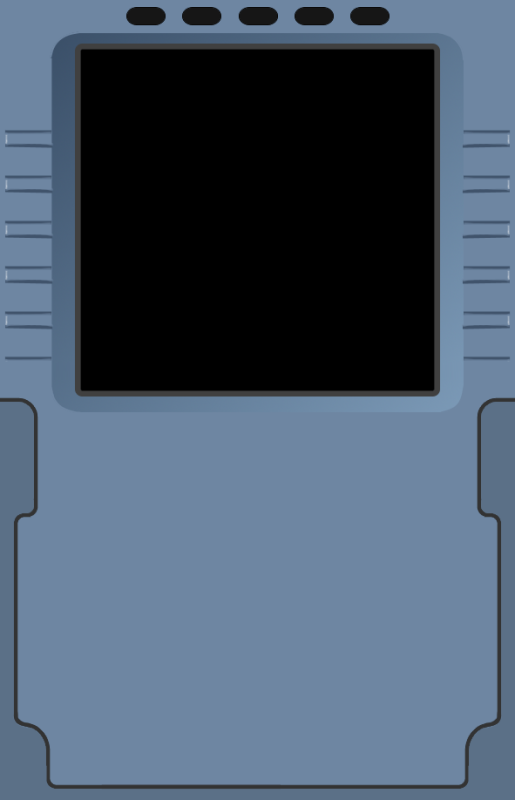
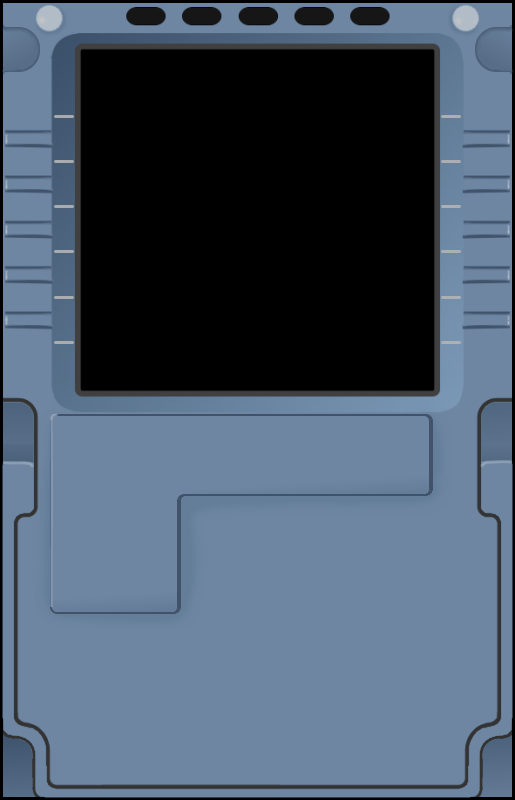
temp commmit

diff --git a/main.py b/main.py
@@ -14,6 +14,7 @@ framerect = mcduframe.get_rect()
 mcdubutton = pygame.image.load("mcdubutton.png").convert()
 plankbtntemp = pygame.image.load("plankbtntemp.png").convert()
 akey = pygame.image.load("akey.png").convert()
+circularbutton = pygame.image.load("circularbutton.png").convert()
 
 #logic vars
 currPage = ""
@@ -31,10 +32,12 @@ orange = (255, 147, 0)
 depdest = "____/____"
 depdestclr = orange
 corte = "__________"
+corteclr = orange
 altncorte = "____/__________"
 fltnbr = "________"
 costi = "---"
 crzfl = "-----/---°"
+initrqvis = True
 
 class Button():
   def __init__(self, x, y, image):
@@ -73,11 +76,13 @@ class fmgc():
     global currPage
     global depdest
     global depdestclr
+    global corteclr
     global corte
     global altncorte
     global fltnbr
     global costi
     global crzfl
+    global initrqvis
     currPage = "initA"
     scrtchpd.pad("")
     self.depdest = depdest
@@ -87,10 +92,6 @@ class fmgc():
     title_rect = title.get_rect()
     title_rect.topleft = (224, 68)
     screen.blit(title, title_rect)
-    title = font.render("REQUEST*", True, orange)
-    title_rect = title.get_rect()
-    title_rect.topleft = (308, 158)
-    screen.blit(title, title_rect)
     title = font.render("←→", True, white)
     title_rect = title.get_rect()
     title_rect.topleft = (384, 68)
@@ -99,7 +100,7 @@ class fmgc():
     title_rect = title.get_rect()
     title_rect.topleft = (290, 108)
     screen.blit(title, title_rect)
-    title = font.render(corte, True, orange)
+    title = font.render(corte, True, corteclr)
     title_rect = title.get_rect()
     title_rect.topleft = (88, 108)
     screen.blit(title, title_rect)
@@ -120,11 +121,18 @@ class fmgc():
     title_rect = title.get_rect()
     title_rect.topleft = (93, 181)
     screen.blit(title, title_rect)
-    title = font.render("INIT", True, orange)
-    title_rect = title.get_rect()
-    title_rect.topleft = (369, 140)
-    screen.blit(title, title_rect)
+    if initrqvis == True:
+      title = font.render("INIT", True, orange)
+      title_rect = title.get_rect()
+      title_rect.topleft = (369, 140)
+      screen.blit(title, title_rect)
+      font = pygame.font.Font("HoneywellMCDU.ttf", 21)
+      title = font.render("REQUEST*", True, orange)
+      title_rect = title.get_rect()
+      title_rect.topleft = (308, 158)
+      screen.blit(title, title_rect)
     scrtchpd.pad("")
+    return
     
   def StartMenu(self):
     global currPage
@@ -195,9 +203,13 @@ class Scratchpad():
   def pad(self, inpt):
     global scratch
     act = True
+   
     if act == True:
       font = pygame.font.Font("HoneywellMCDU.ttf", 21)
-      if inpt == "CLR":
+      if len(scratch) >= 23 and inpt != "CLR":
+        self.invalidinpt("TOO LONG")
+        return
+      elif inpt == "CLR":
         if scratch == "":
           scratch = "     CLR"
         elif scratch == "     CLR":
@@ -215,22 +227,24 @@ class Scratchpad():
       screen.blit(text, text_rect)
       return scratch
       
-  def invalidinpt(self):
+  def invalidinpt(self, text):
     global scratch
     font = pygame.font.Font("HoneywellMCDU.ttf", 21)
-    text = font.render("INVALID INPUT", True, orange)
+    text = font.render(text, True, orange)
     text_rect = text.get_rect()
     text_rect.topleft = (87, 363)
     blocker = pygame.Surface((350, 29))
     blocker.fill((0, 0, 0))
     screen.blit(blocker, self.rect)
     screen.blit(text, text_rect)
-    time.sleep(3)
+    pygame.display.flip()
+    time.sleep(2)
     screen.blit(blocker, self.rect)
     text = font.render(scratch, True, white)
     text_rect = text.get_rect()
     text_rect.topleft = (87, 363)
     screen.blit(text, text_rect)
+    pygame.display.flip()
 
   def clear(self):
     global scratch
@@ -287,8 +301,21 @@ k_x =  Button(366 , 692, akey)
 k_y =  Button(420 , 692, akey)
 k_z =  Button(206 , 740, akey)
 k_slant =  Button(260 , 740, akey)
+k_sp =  Button(312 , 740, akey)
+k_ovfy =  Button(366 , 740, akey)
 k_clr = Button(420 , 740, akey)
-
+k_1 = Button(55, 618, circularbutton)
+k_2 = Button(105, 618, circularbutton)
+k_3 = Button(156, 618, circularbutton)
+k_4 = Button(55, 660, circularbutton)
+k_5 = Button(105, 660, circularbutton)
+k_6 = Button(156, 660, circularbutton)
+k_7 = Button(55, 701, circularbutton)
+k_8 = Button(105, 701, circularbutton)
+k_9 = Button(156, 701, circularbutton)
+k_0 = Button(105, 742, circularbutton)
+k_dot = Button(55, 742, circularbutton)
+k_plusminus = Button(156, 742, circularbutton)
 
 #page select keys
 blank = Button(370, 421, plankbtntemp)
@@ -297,8 +324,18 @@ data = Button(308, 421, plankbtntemp)
 perf = Button(181, 421, plankbtntemp)
 prog = Button(118, 421, plankbtntemp)
 dir = Button(56, 421, plankbtntemp)
-
-
+mcdumenu = Button(370, 459, plankbtntemp)
+secfpln = Button(245, 459, plankbtntemp)
+atccomm = Button(308, 459, plankbtntemp)
+fuelpred = Button(181, 459, plankbtntemp)
+radnav = Button(118, 459, plankbtntemp)
+fpln = Button(56, 459, plankbtntemp)
+blank2 = Button(118, 497, plankbtntemp)
+airport = Button(56, 497, plankbtntemp)
+up = Button(118, 535, plankbtntemp)
+left = Button(56, 535, plankbtntemp)
+down = Button(118, 573, plankbtntemp)
+right = Button(56, 573, plankbtntemp)
 #screens
 sinita = fmgc()
 sinitb = fmgc()
@@ -332,12 +369,23 @@ while True:
         corte = "VHHHRCTP01"
         depdest = "VHHH/RCTP"
         depdestclr = cyan
+        corteclr = cyan
+        initrqvis = False
         screen.fill(backgroundColor)
         screen.blit(mcduframe, framerect)
         scrtchpd.clear()
         sinita.InitA()
+      elif scrtchpd.pad("") == "     CLR":
+        corte = "__________"
+        depdest = "____/____"
+        depdestclr = orange
+        corteclr = orange
+        initrqvis = True
+        scrtchpd.clear()
+        sinita.InitA()
       else:
-        scrtchpd.invalidinpt()
+        scrtchpd.invalidinpt("INVALID CO RTE")
+        time.sleep(2.1)
         
   if l2sk.draw() == True:
     screen.fill(backgroundColor)
@@ -356,13 +404,21 @@ while True:
       if scrtchpd.pad("") == "VHHH/RCTP":
         depdest = "VHHH/RCTP"
         depdestclr = cyan
+        initrqvis = False
         screen.fill(backgroundColor)
         screen.blit(mcduframe, framerect)
         print(depdest)
         scrtchpd.clear()
         sinita.InitA()
+      elif scrtchpd.pad("") == "     CLR":
+        depdest = "____/____"
+        depdestclr = orange
+        initrqvis = True
+        scrtchpd.clear()
+        sinita.InitA()
       else:
-        scrtchpd.invalidinpt()
+        scrtchpd.invalidinpt("INVALID INPUT")
+        time.sleep(2.1)
   if r2sk.draw() == True:
     print(pygame.font.get_fonts())
   if r3sk.draw() == True:
@@ -375,6 +431,7 @@ while True:
     screen.fill(backgroundColor)
     screen.blit(mcduframe, framerect)
     sinop.inopPages()
+  
   if blank.draw() == True:
     screen.fill(backgroundColor)
     screen.blit(mcduframe, framerect)
@@ -387,6 +444,18 @@ while True:
   perf.draw()
   prog.draw()
   data.draw()
+  fpln.draw()
+  atccomm.draw()
+  secfpln.draw()
+  mcdumenu.draw()
+  radnav.draw()
+  fuelpred.draw()
+  blank2.draw()
+  airport.draw()
+  up.draw()
+  down.draw()
+  left.draw()
+  right.draw()
   if k_a.draw() == True:
     scrtchpd.pad("A")
   if k_b.draw() == True:
@@ -441,8 +510,36 @@ while True:
     scrtchpd.pad("Z")
   if k_slant.draw() == True:
     scrtchpd.pad("/")
+  if k_sp.draw() == True:
+    scrtchpd.pad(" ")
+  if k_ovfy.draw() == True:
+    scrtchpd.pad("Δ")
   if k_clr.draw() == True:
     scrtchpd.pad("CLR")
+  if k_1.draw() == True:
+    scrtchpd.pad("1")
+  if k_2.draw() == True:
+    scrtchpd.pad("2")
+  if k_3.draw() == True:
+    scrtchpd.pad("3")
+  if k_4.draw() == True:
+    scrtchpd.pad("4")
+  if k_5.draw() == True:
+    scrtchpd.pad("5")
+  if k_6.draw() == True:
+    scrtchpd.pad("6")
+  if k_7.draw() == True:
+    scrtchpd.pad("7")
+  if k_8.draw() == True:
+    scrtchpd.pad("8")
+  if k_9.draw() == True:
+    scrtchpd.pad("9")
+  if k_0.draw() == True:
+    scrtchpd.pad("0")
+  if k_dot.draw() == True:
+    scrtchpd.pad(".")
+  if k_plusminus.draw() == True:
+    scrtchpd.pad("+")
   pygame.display.flip()
 
 
